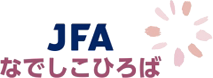
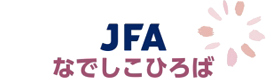
協賛欄の写真を日本の子どもの写真に、JFAロゴを大きく、なでしこひろばのJFAをタイル中央に
Claude-Session: https://claude.ai/code/session_01FQgtGQXKrTm5tdMPQkMAhc

diff --git a/NFA_site_design/index.html b/NFA_site_design/index.html
@@ -229,7 +229,7 @@
 <span class="spc-tx"><b>JFAフェスティバル</b></span>
 </a>
 <a class="spc-i" href="https://www.jfa.jp/nadeshikohiroba/" rel="noopener" target="_blank">
-<span class="spc-lg"><img alt="JFAなでしこひろば" height="78" loading="lazy" src="assets/img/spc-hiroba.png" width="213"/></span>
+<span class="spc-lg"><img alt="JFAなでしこひろば" height="78" loading="lazy" src="assets/img/spc-hiroba.png" width="266"/></span>
 <span class="spc-tx"><b>JFAなでしこひろば</b></span>
 </a>
 <a class="spc-i" href="https://www.jfa.jp/women/womensfootballday2026/" rel="noopener" target="_blank">
@@ -243,7 +243,7 @@
 <section class="sec" style="padding-top:0">
 <div class="wrap">
 <div class="sh"><div class="e">RELATED <i>LINKS</i></div><span class="j">関連リンク</span></div>
-<div class="lsub lsub-jfa"><img alt="" height="28" src="assets/img/lk-jfa.png" width="59"/>JFA ─ 日本サッカー協会</div>
+<div class="lsub lsub-jfa"><img alt="JFA 日本サッカー協会" height="93" src="assets/img/lk-jfa.png" width="196"/><span>JFA ─ 日本サッカー協会</span></div>
 <div class="lnk">
 <a href="https://www.jfa.jp/"><b>JFA</b><span>日本サッカー協会</span></a>
 <a href="https://www.jfa.jp/samuraiblue/"><b>SAMURAI BLUE</b><span>サッカー日本代表</span></a>

diff --git a/NFA_site_design/assets/css/style.css b/NFA_site_design/assets/css/style.css
@@ -1568,6 +1568,13 @@ a:hover .arr{transform:translateX(3px)}
 @media (max-width:767px){.spc-dl{flex-direction:row;flex-wrap:nowrap;justify-content:flex-start;align-items:center;padding:0}}
 /* v28: 協賛欄の写真の切り抜き位置 */
 .part .ph img[src$="pt-main.jpg"]{object-position:56% 50%}
+/* v29: JFAロゴを大きく（公式画像196×93を約1.6倍まで） */
+.lsub-jfa{gap:18px;margin-top:32px}
+.lsub-jfa img{height:58px;width:auto}
+.lsub-jfa span{font-size:13px;letter-spacing:.12em;color:var(--navy)}
+@media (max-width:767px){.lsub-jfa{gap:14px}.lsub-jfa img{height:46px}}
+/* なでしこひろば：ロゴの「JFA」がタイルの水平中央に来るよう画像側で余白調整済み */
+.spc-i [alt="JFAなでしこひろば"]{max-width:90%}
 /* ===== 404.html ===== */
 .nf-hero{background:var(--navy);color:#fff;position:relative;overflow:hidden}
 .nf-hero .wrap{position:relative;padding-block:56px 60px}
